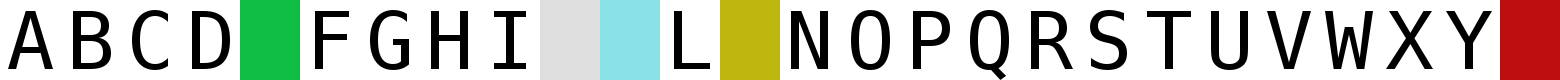
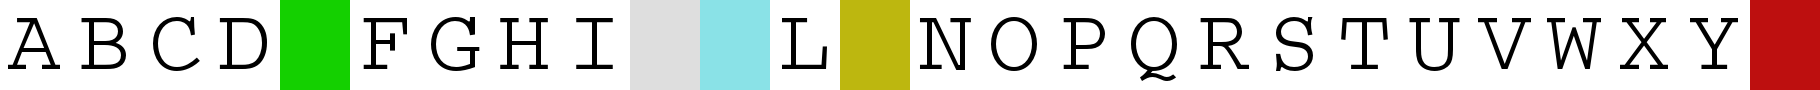
Edited styles

Changed region(s): [[0.4923, 0.125, 0.9538, 0.975], [0.0, 0.0, 0.3385, 1.0], [0.4308, 0.15, 0.4615, 0.875]]

diff --git a/main.js b/main.js
@@ -38,7 +38,7 @@ $(function () {
     ["T", "O", " ", "O", "I", "L"],
   ];
   const EXTRA_ANSWER = ["B", "L", "R", "D"];
-  const CARD_WIDTH = 60, CARD_HEIGHT = 80;
+  const CARD_WIDTH = 70, CARD_HEIGHT = 90;
   const SCREEN_WIDTH = 800, SCREEN_HEIGHT = 500;
   const TIMEOUT = 1000,
     INFO_FADE = 300,
@@ -405,35 +405,53 @@ $(function () {
   // ################################
   // READY!!
 
-  function preload() {
-    // TODO
-    $('#pane-loading')
-      .empty()
-      .append($('<button>').text('เริ่มเล่น!').click(function () {
-        $('#scene-main').show();
-        $('#pane-info, #info-inst').show();
-        $('#scene-preload').hide();
-        initBag();
-      }));
-  }
-
-  // Handle screen resizing to 800 x 500
-  // https://stackoverflow.com/q/8735457
   function resizeScreen() {
-    let sW = Math.min(window.screen.width, $(window).width());
-    let sH = Math.min(window.screen.height, $(window).height()) - 25;
-    let ratio = Math.min(sW / 800, sH / 500);
-    $('#viewport').attr('content',
-      'width='
-      + (ratio >= 1 ? 'device-width' : (ratio * 800))
-      + ', initial-scale='
-      + (ratio >= 1 ? 1.0 : ratio)
-      + ', user-scalable=no');
-    window.scroll(0, 1);
+    let ratio = Math.min(
+      1.0,
+      window.innerWidth / SCREEN_WIDTH,
+      window.innerHeight / SCREEN_HEIGHT,
+    );
+    $('#game').css('transform', 'scale(' + ratio + ')');
   }
 
   resizeScreen();
   $(window).resize(resizeScreen);
-  preload();
+
+  const imageList = [
+    "img/cards.png",
+    "img/bg.png",
+    "img/balloons.png",
+    "img/flags.png",
+    "img/cake.png",
+    "img/present.png",
+    "img/poop.png",
+    "img/bird.png",
+  ];
+  let numResourcesLeft = imageList.length;
+  $('#pane-loading').text('Loading resources (' + numResourcesLeft + ' left)');
+
+  function decrementPreload () {
+    numResourcesLeft--;
+    if (numResourcesLeft == 0) {
+      $('#pane-loading')
+        .empty()
+        .append($('<button>').text('เริ่มเล่น!').click(function () {
+          $('#scene-main').show();
+          $('#pane-info, #info-inst').show();
+          $('#scene-preload').hide();
+          initBag();
+        }));
+    } else {
+      $('#pane-loading').text('Loading resources (' + numResourcesLeft + ' left)');
+    }
+  }
+
+  let images = [];
+  imageList.forEach(function (x) {
+    let img = new Image();
+    img.onload = decrementPreload;
+    img.src = x;
+    images.push(img);
+  });
 
 });

diff --git a/style.css b/style.css
@@ -178,9 +178,9 @@ button {
 .card, .card-slot {
   border: 1px solid #200;
   border-radius: 5px;
-  width: 60px;
-  height: 80px;
-  margin: 10px;
+  width: 70px;
+  height: 90px;
+  margin: 3px;
   background-image: url('img/cards.png');
   font-size: 40px;   /* for debug only */
 }
@@ -193,7 +193,7 @@ button {
 }
 
 .card-slot {
-  margin: 5px;
+  margin: 0;
 }
 .card-slot.empty {
   border: none;
@@ -223,12 +223,12 @@ button {
 
 #pane-bag {
   display: flex;
-  padding: 10px 10px;
+  padding: 10px 9px;
 }
 
 .bag-group {
-  margin: 5px;
-  width: 60px;
+  margin: 0.5px;
+  width: 70px;
 }
 
 .bag-group .card {
@@ -238,8 +238,11 @@ button {
 }
 
 .bag-card-2 {
-  top: -70px;
-  left: 5px;
+  top: -80px;
+}
+
+#pane-extra span {
+  padding-right: 10px;
 }
 
 /* ################################ */
